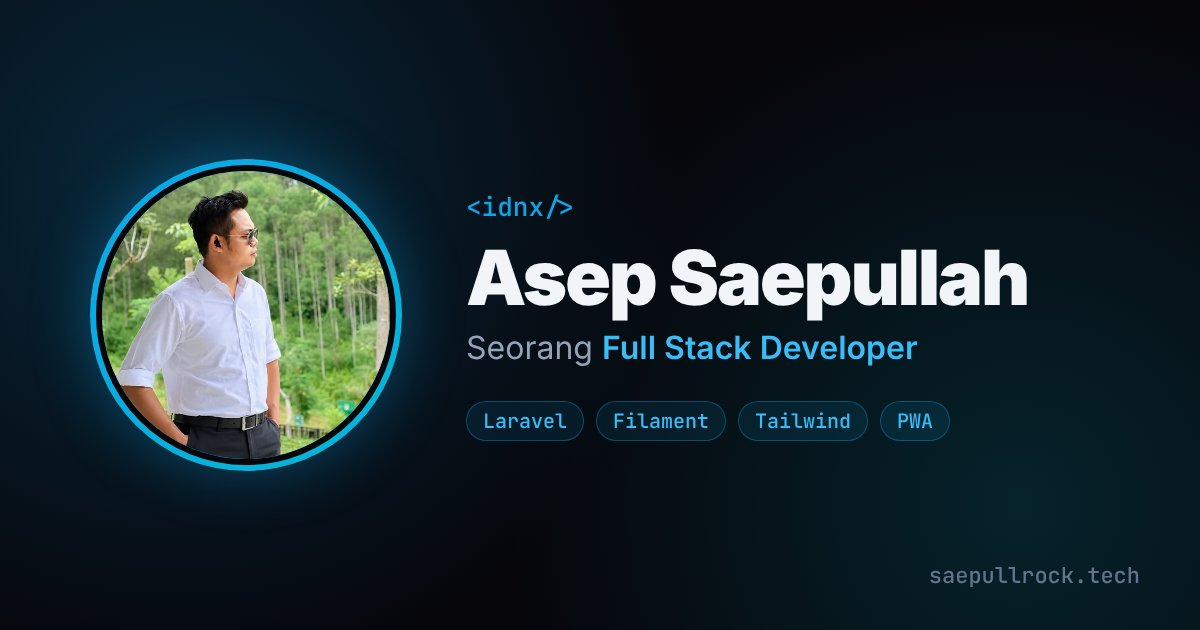
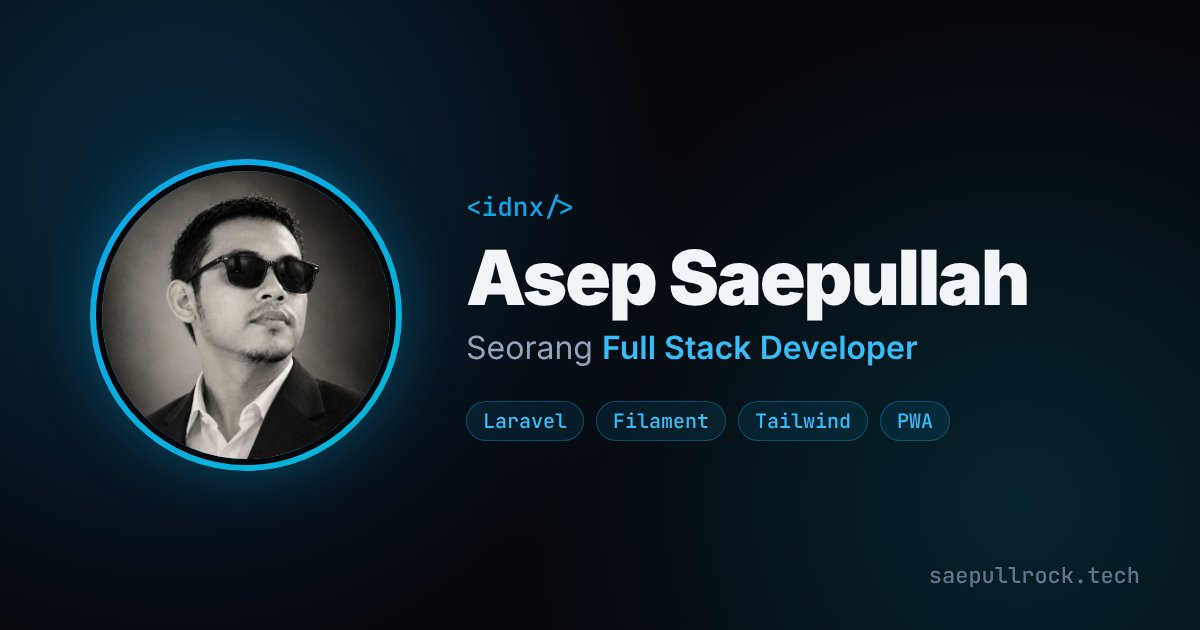
Use new profile photo for About section and share image
Claude-Session: https://claude.ai/code/session_013bHoMVsfMiorXuRKZvHU21

Changed region(s): [[0.0617, 0.2714, 0.3392, 0.754]]

diff --git a/index.html b/index.html
@@ -156,7 +156,7 @@
       <div class="about__grid reveal">
         <div class="about__photo-wrapper">
           <div class="about__photo-ring">
-            <img src="assets/images/profile.webp" alt="Asep Saepullah" class="about__photo" width="542" height="560" loading="lazy" decoding="async">
+            <img src="assets/images/profile.webp" alt="Asep Saepullah" class="about__photo" width="600" height="600" loading="lazy" decoding="async">
           </div>
           <div class="about__photo-dot"></div>
         </div>
